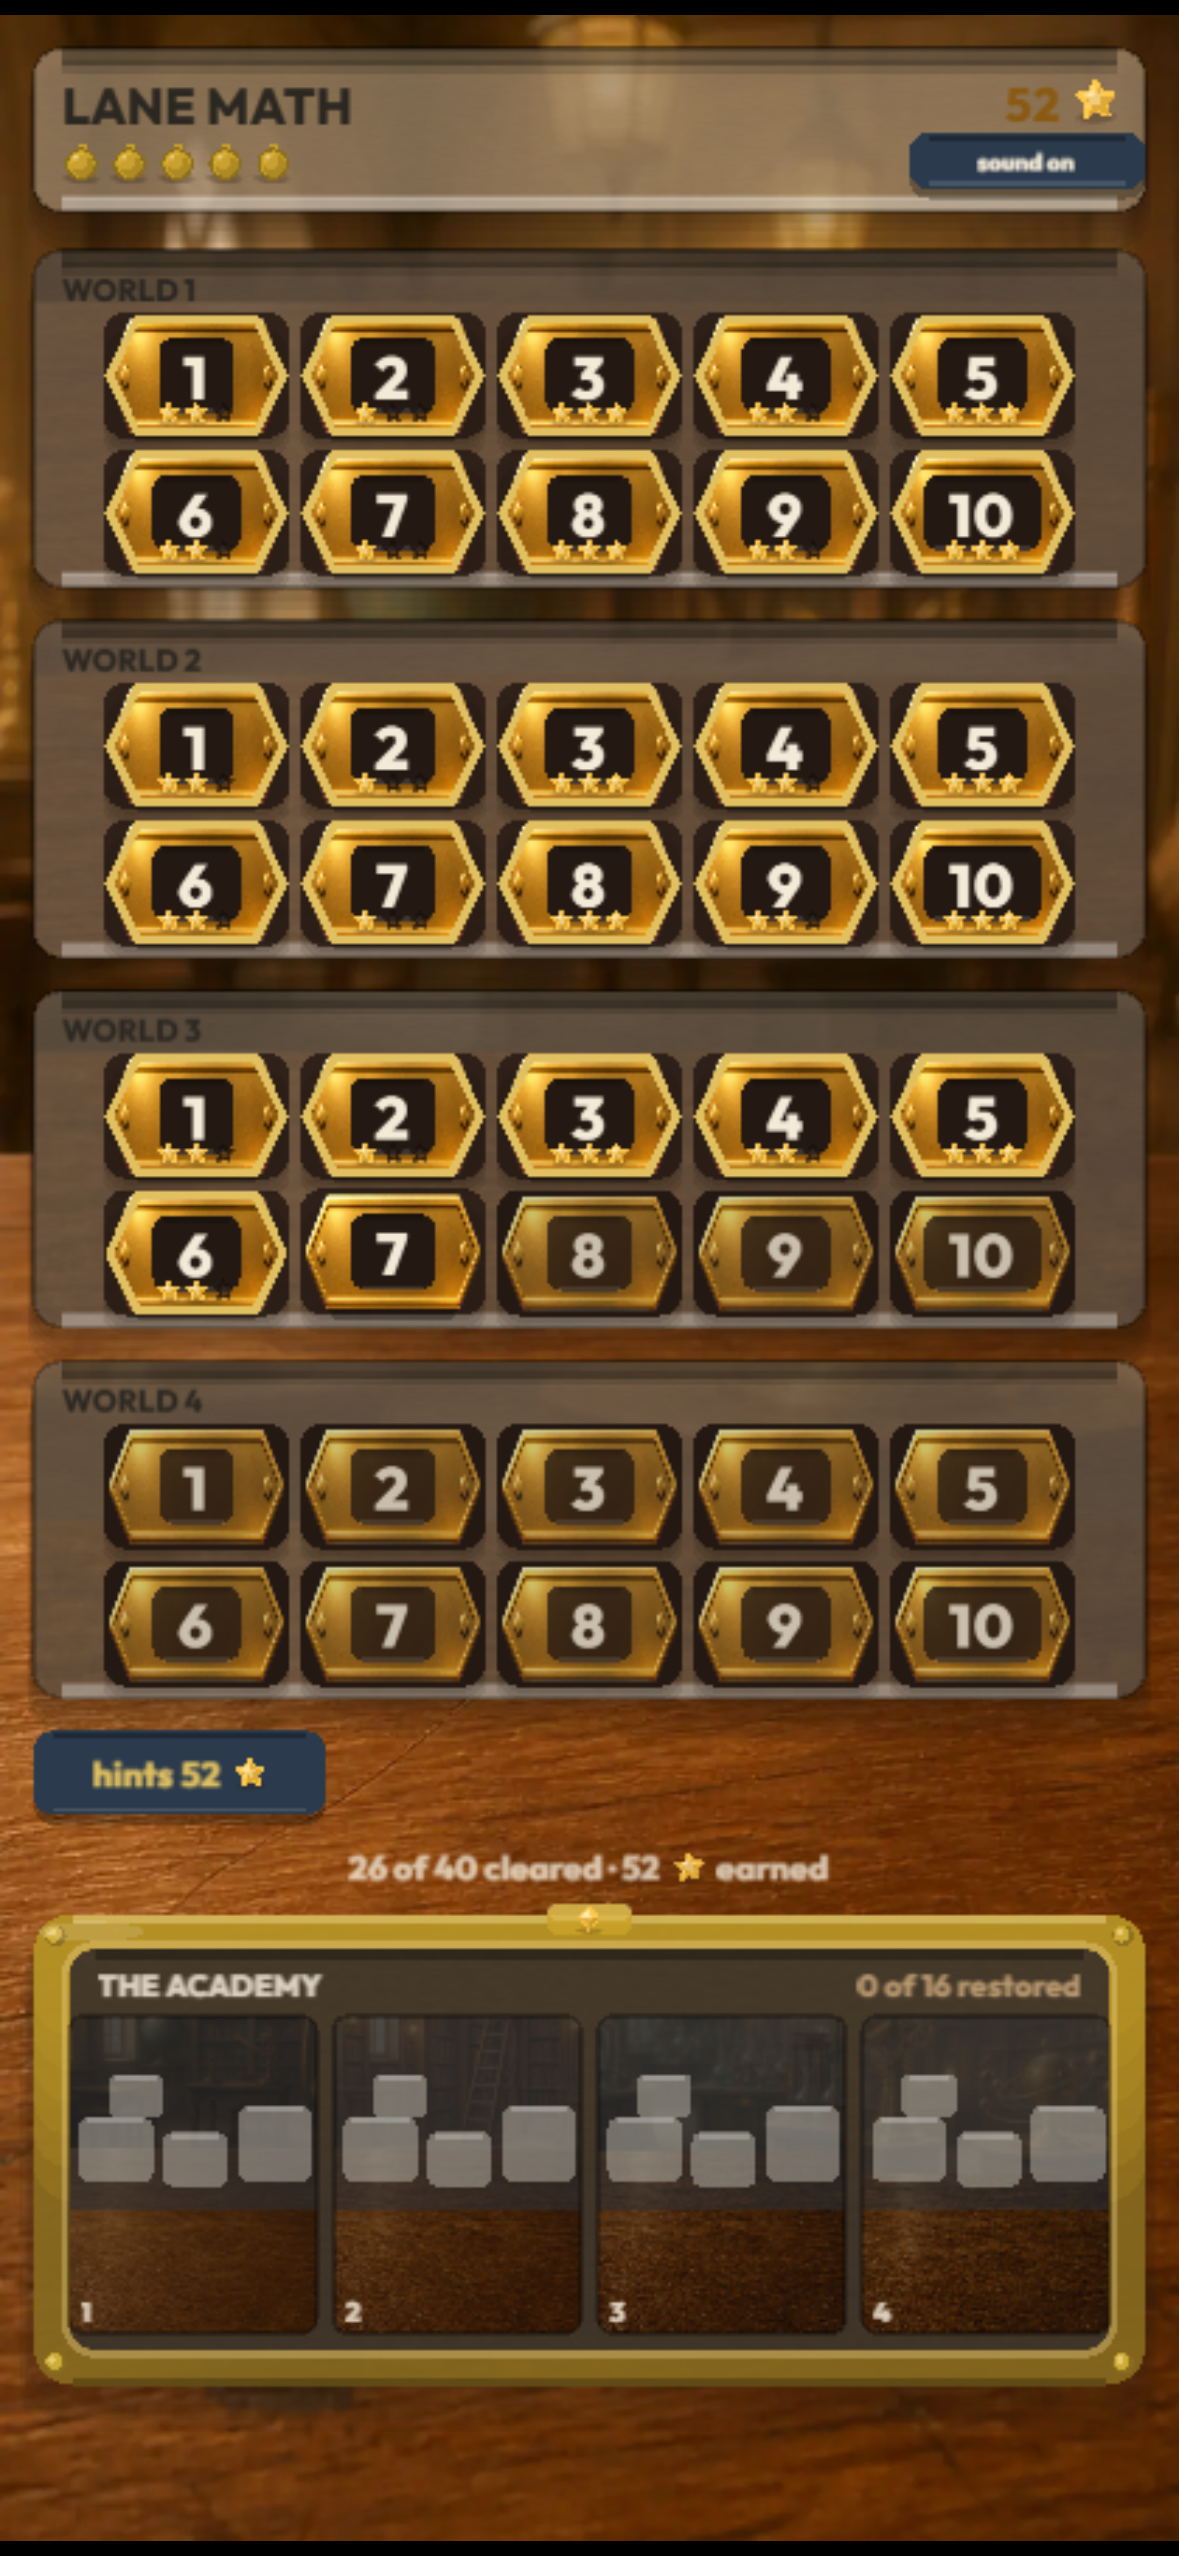
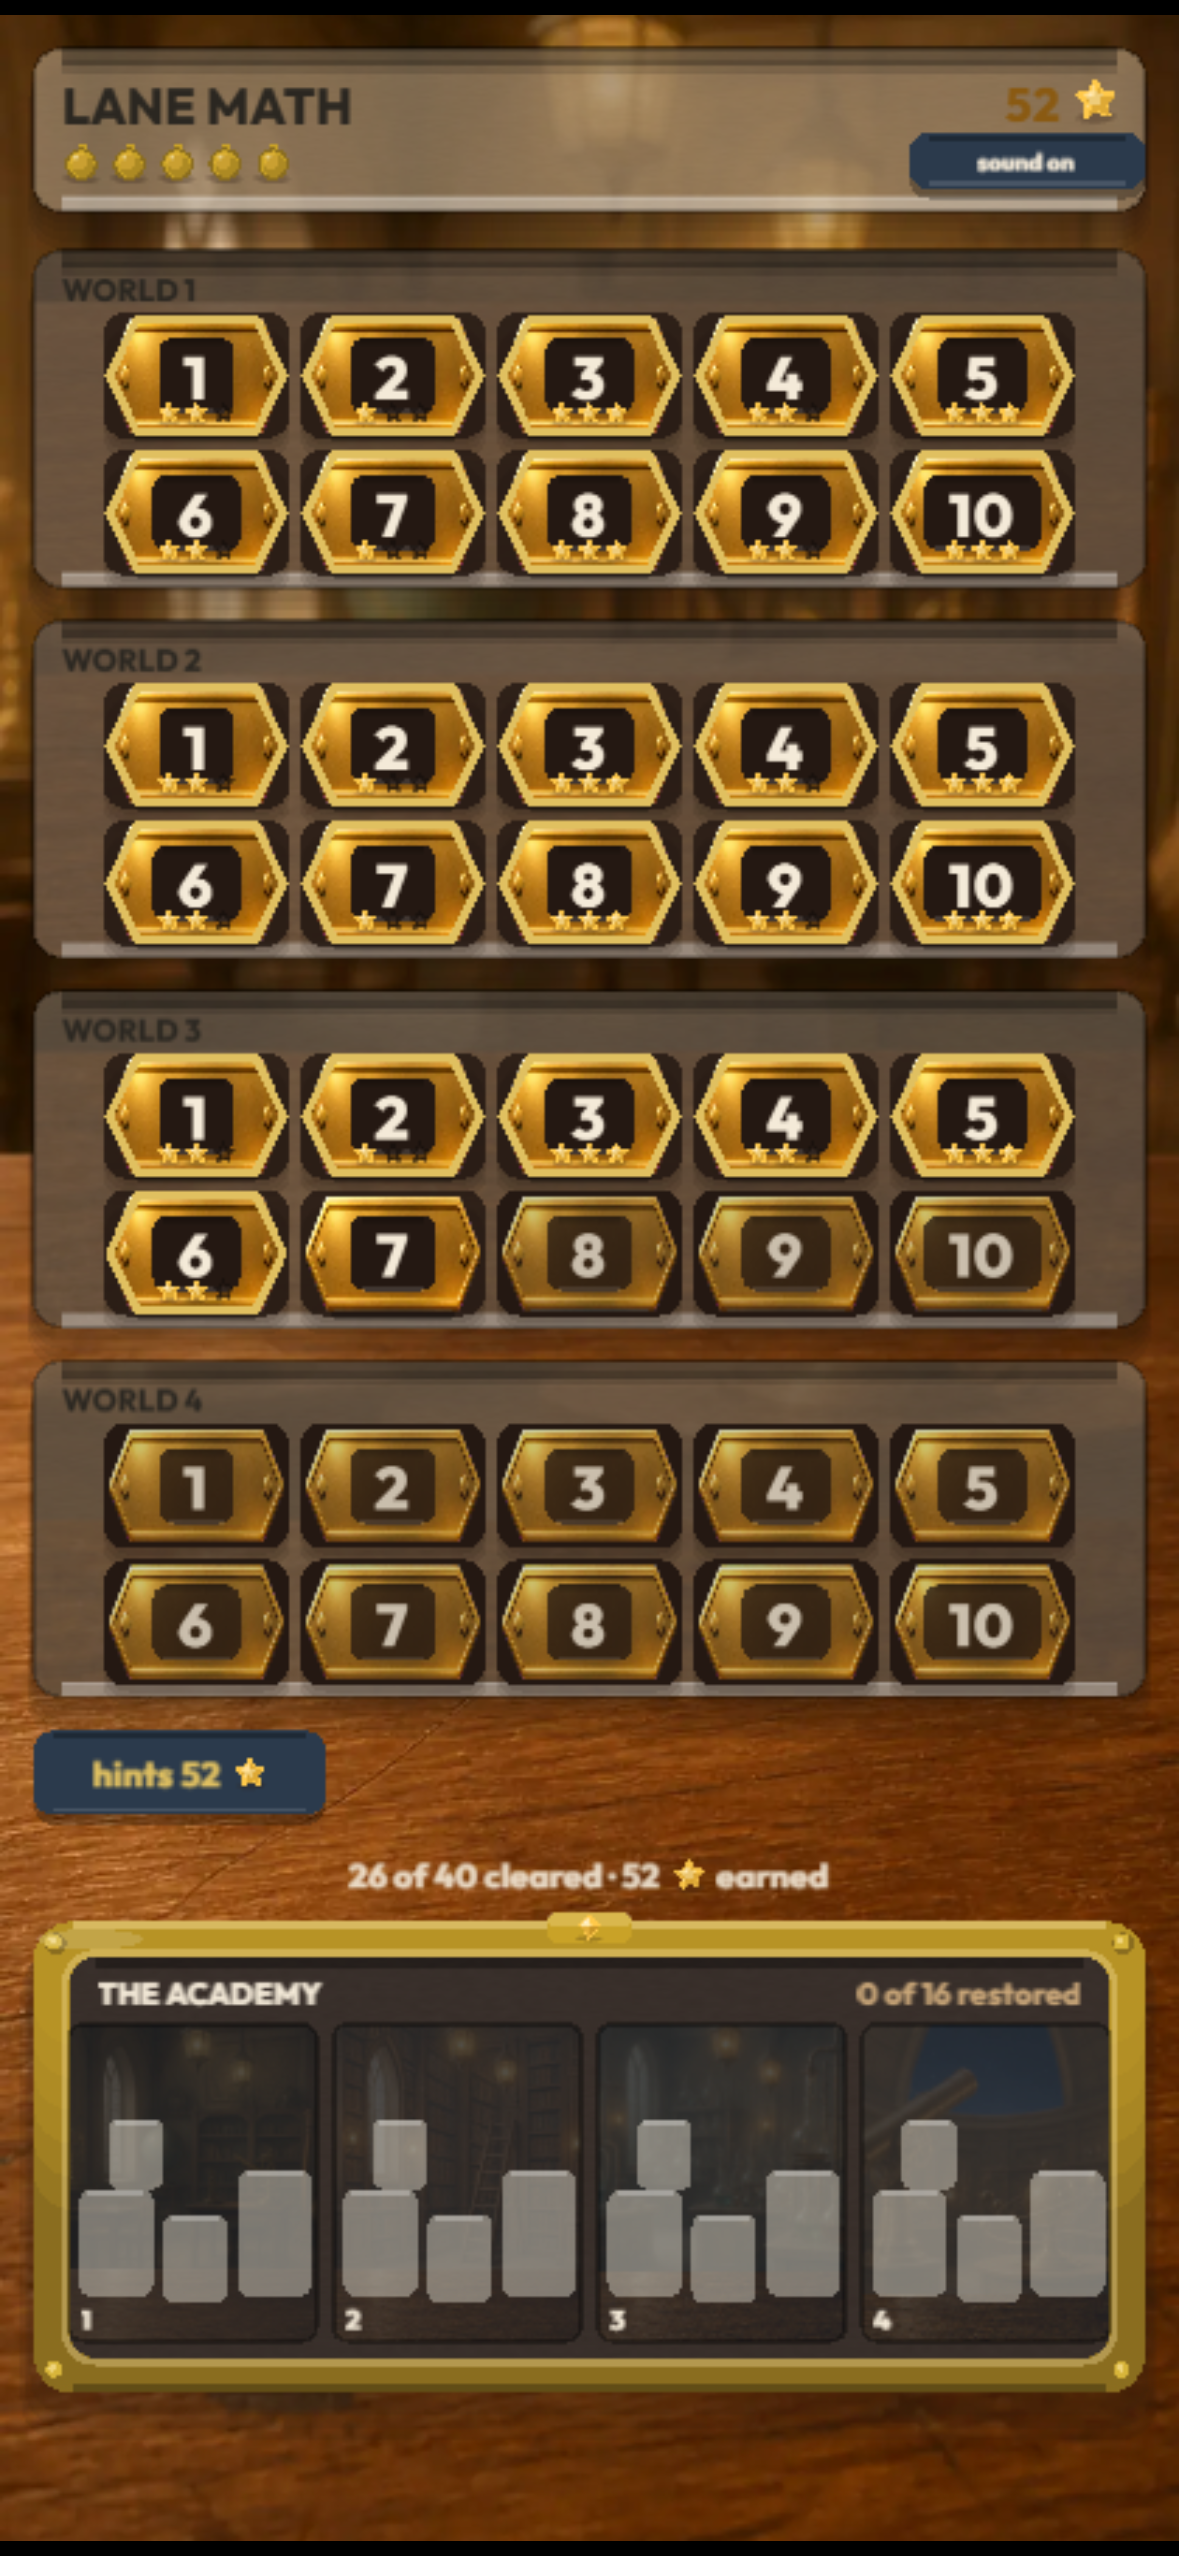
Crop the Academy vignettes to the room half
§6 as amended. The desk edge sits at ~61% of the 900x2100 plate, so
cover-fitting the whole plate into a 95x110 cell spent about 40% of it
on wood that is identical at 0/4 and 4/4 — the before/after diluted by
the one part of the image that never changes.

Fitting the room half instead lands the room's centre in the cell rather
than the plate's, and the shelf's brass frame is the surrounding surface
the desk was standing in for. The vignettes now read as four rooms.

§6's no-veiled-desk rule is untouched: it governs the board, where the
desk is what the player plays on.

338/338 green.

diff --git a/src/map/map-screen.ts b/src/map/map-screen.ts
@@ -285,24 +285,36 @@ export class MapScreen {
 
       const room = this.rooms.get(world);
       if (room) {
+        /*
+         * CROPPED TO THE ROOM HALF (§6).
+         *
+         * The desk edge sits at ~61% of the 900x2100 plate, measured by row
+         * focus energy. Cover-fitting the WHOLE plate into a 95x110 cell spent
+         * about 40% of it on desk that is identical in both states — the
+         * before/after diluted by inert wood. Fitting the room half instead
+         * gives the same footprint ~60% more usable area, and the shelf's brass
+         * frame is the surrounding surface the desk was standing in for.
+         *
+         * §6's no-veiled-desk rule is untouched: it governs the BOARD, where
+         * the desk is what the player plays on.
+         */
+        const ROOM_FRACTION = 0.61;
+        const roomH = room.height * ROOM_FRACTION;
         const art = new Sprite(room);
-        const cover = Math.max(vw / room.width, vh / room.height);
+        const cover = Math.max(vw / room.width, vh / roomH);
         art.scale.set(cover);
         art.anchor.set(0.5);
-        art.position.set(vw / 2, vh / 2);
+        // Land the ROOM HALF's centre in the cell, not the whole plate's.
+        art.position.set(vw / 2, vh / 2 - (roomH / 2 - room.height / 2) * cover);
         const mask = new Graphics().roundRect(0, 0, vw, vh, 5).fill(0xffffff);
         art.mask = mask;
         cell.addChild(art, mask);
 
-        /*
-         * §6: the desk half is never veiled. The vignette is cover-fitted from
-         * the same 900x2100 plate the board uses, whose desk edge sits at ~61%
-         * of the source — so the room half of THIS crop is the top ~61% too.
-         */
+        // The cell is now ALL room, so the veil covers all of it.
         const overlay = veiled(art, {
           width: vw,
           height: vh,
-          roomFraction: 0.61,
+          roomFraction: 1,
           restored: (v.restored[world] ?? 0) as Restored,
         });
         overlay.mask = mask;
